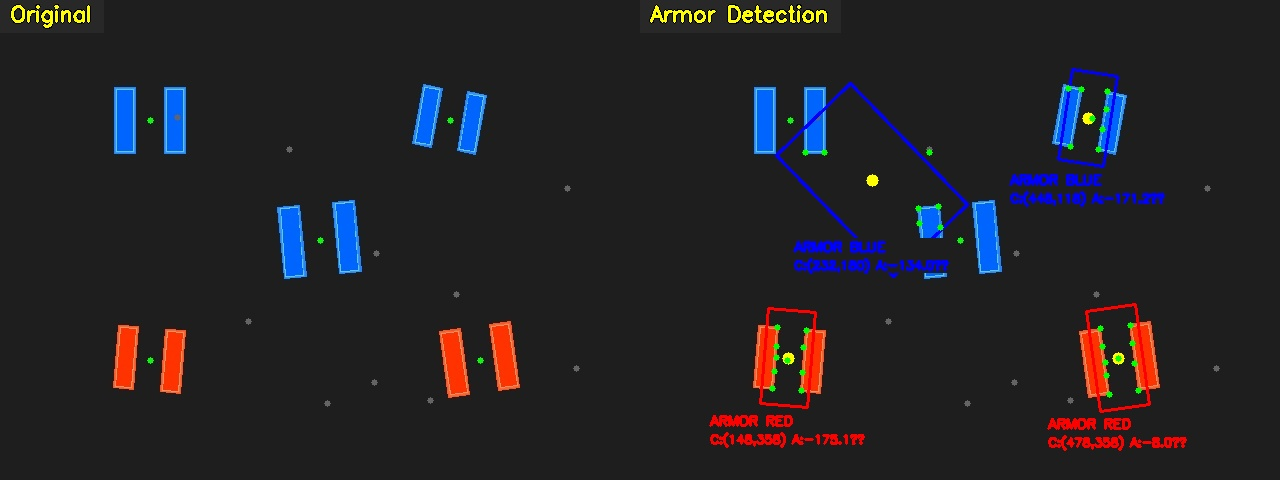
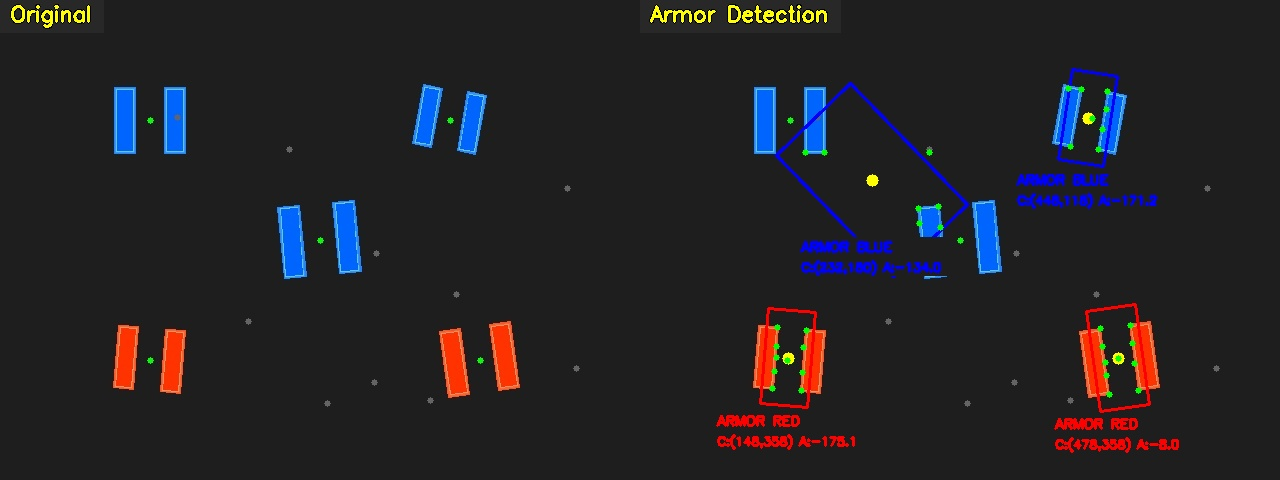
fix: round5 CLAHE low-light enhancement, pentagon detection, Chinese path support, armor label fix

diff --git a/src/task4_advanced/robustness_test.py b/src/task4_advanced/robustness_test.py
@@ -84,6 +84,22 @@ def evaluate_color_detection(image_path, expected_targets=None):
     }
 
 
+def enhance_for_low_light(image):
+    """
+    对低光照图像进行增强预处理（CLAHE自适应直方图均衡化）
+    在HSV的V通道上做CLAHE，保留颜色信息的同时提升亮度对比度
+    :param image: BGR图像
+    :return: 增强后的BGR图像
+    """
+    # 转到LAB色彩空间，对L通道做CLAHE（比直接在灰度图上效果更好）
+    lab = cv2.cvtColor(image, cv2.COLOR_BGR2LAB)
+    l_channel, a_channel, b_channel = cv2.split(lab)
+    clahe = cv2.createCLAHE(clipLimit=3.0, tileGridSize=(8, 8))
+    l_enhanced = clahe.apply(l_channel)
+    lab_enhanced = cv2.merge([l_enhanced, a_channel, b_channel])
+    return cv2.cvtColor(lab_enhanced, cv2.COLOR_LAB2BGR)
+
+
 def run_lighting_tests(image_dir, output_dir, expected_count=None):
     """
     光照鲁棒性测试
@@ -114,9 +130,15 @@ def run_lighting_tests(image_dir, output_dir, expected_count=None):
         enhanced = apply_lighting_effect(image, light_type)
         save_image(os.path.join(output_dir, f"{light_type}_processed.jpg"), enhanced)
 
-        # 在增强后的图像上进行检测
-        _, red_targets, _, _ = detect_color_targets(enhanced, 'red', min_area=200)
-        _, blue_targets, _, _ = detect_color_targets(enhanced, 'blue', min_area=200)
+        # 对暗光场景（dark/backlit）使用CLAHE增强后再检测，提升鲁棒性
+        if light_type in ('dark', 'backlit'):
+            detect_img = enhance_for_low_light(enhanced)
+        else:
+            detect_img = enhanced
+
+        # 在处理后的图像上进行检测
+        _, red_targets, _, _ = detect_color_targets(detect_img, 'red', min_area=200)
+        _, blue_targets, _, _ = detect_color_targets(detect_img, 'blue', min_area=200)
         detected = len(red_targets) + len(blue_targets)
 
         expected = expected_count.get(light_type, detected) if expected_count else detected

diff --git a/src/task4_advanced/armor_detection.py b/src/task4_advanced/armor_detection.py
@@ -208,26 +208,26 @@ def detect_armor(image, min_area=100, max_area=5000):
             # 标注信息（自适应位置，增加深色背景条确保文字在任何背景下都清晰）
             h_img, w_img = result.shape[:2]
             label1 = f"ARMOR {color_name.upper()}"
-            label2 = f"C:({cx},{cy}) A:{round(armor['angle'], 1)}°"
+            label2 = f"C:({cx},{cy}) A:{round(armor['angle'], 1)}"
             font = cv2.FONT_HERSHEY_SIMPLEX
             tw1, th1 = cv2.getTextSize(label1, font, 0.45, 2)[0]
             tw2, th2 = cv2.getTextSize(label2, font, 0.4, 2)[0]
-            max_tw = max(tw1, tw2)
+            max_tw = max(tw1, tw2) + 8  # 增加内边距防止截断
             # 标签放在装甲板框下方，避免超出图片边界
-            lx = max(5, min(cx - max_tw // 2, w_img - max_tw - 5))
+            lx = max(5, min(cx - max_tw // 2 + 4, w_img - max_tw - 5))
             # 放在框下方，如果下方空间不够则放上方
             box_bottom = cy + armor['height'] // 2 + 5
             box_top = cy - armor['height'] // 2 - 5
-            if box_bottom + 40 < h_img:
+            if box_bottom + 45 < h_img:
                 ly1 = box_bottom + 15
             else:
-                ly1 = max(20, box_top - 35)
-            ly2 = ly1 + 18
-            # 绘制背景条（覆盖两行文字）
-            bg_y1 = max(0, ly1 - th1 - 3)
-            bg_y2 = min(h_img, ly2 + 3)
-            bg_x1 = max(0, lx - 3)
-            bg_x2 = min(w_img, lx + max_tw + 3)
+                ly1 = max(20, box_top - 40)
+            ly2 = ly1 + 20
+            # 绘制背景条（覆盖两行文字，增加padding）
+            bg_y1 = max(0, ly1 - th1 - 4)
+            bg_y2 = min(h_img, ly2 + 4)
+            bg_x1 = max(0, lx - 4)
+            bg_x2 = min(w_img, lx + max_tw)
             cv2.rectangle(result, (bg_x1, bg_y1), (bg_x2, bg_y2), (30, 30, 30), -1)
             cv2.putText(result, label1, (lx, ly1), font, 0.45, color_bgr, 2)
             cv2.putText(result, label2, (lx, ly2), font, 0.4, color_bgr, 2)

diff --git a/src/utils.py b/src/utils.py
@@ -27,7 +27,7 @@ def read_image(path):
 
 def save_image(path, image):
     """
-    保存图片到指定路径
+    保存图片到指定路径（支持中文路径）
     :param path: 保存路径
     :param image: 要保存的图像
     :return: 是否保存成功
@@ -35,12 +35,17 @@ def save_image(path, image):
     directory = os.path.dirname(path)
     if directory and not os.path.exists(directory):
         os.makedirs(directory, exist_ok=True)
-    success = cv2.imwrite(path, image)
+    # 使用imencode+tofile方式保存，兼容中文路径
+    ext = os.path.splitext(path)[1].lower()
+    encode_params = [cv2.IMWRITE_JPEG_QUALITY, 95] if ext in ('.jpg', '.jpeg') else []
+    success, encoded = cv2.imencode(ext, image, encode_params)
     if success:
+        encoded.tofile(path)
         print(f"[保存成功] {path}")
+        return True
     else:
         print(f"[保存失败] {path}")
-    return success
+        return False
 
 
 def create_comparison_image(images, titles, cols=2):

diff --git a/src/task3_shape_digit_recognition/shape_recognition.py b/src/task3_shape_digit_recognition/shape_recognition.py
@@ -23,14 +23,14 @@ def preprocess_for_contours(image):
     """
     gray = cv2.cvtColor(image, cv2.COLOR_BGR2GRAY)
     blurred = cv2.GaussianBlur(gray, (5, 5), 0)
-    edges = cv2.Canny(blurred, 50, 150)
+    edges = cv2.Canny(blurred, 30, 120)
     # 膨胀连接断裂边缘
     kernel = cv2.getStructuringElement(cv2.MORPH_RECT, (3, 3))
     edges = cv2.dilate(edges, kernel, iterations=1)
     return edges
 
 
-def detect_shapes(image, min_area=300, shape_region_ratio=0.75):
+def detect_shapes(image, min_area=150, shape_region_ratio=0.75):
     """
     基于轮廓近似识别矩形、三角形、圆形、多边形
     仅检测图片上方区域（避免下方数字干扰），扩大检测范围至75%

diff --git a/test_images/results/task4/robustness_report.md b/test_images/results/task4/robustness_report.md
@@ -1,5 +1,5 @@
 # OpenCV 视觉算法鲁棒性测试报告
-**测试时间：** 2026-06-19 23:28:25
+**测试时间：** 2026-06-19 23:35:02
 
 ## 一、测试目标
 验证颜色阈值色块识别算法在不同光照强度和不同遮挡比例下的性能表现，统计识别准确率、漏检率，为参数调优提供依据。